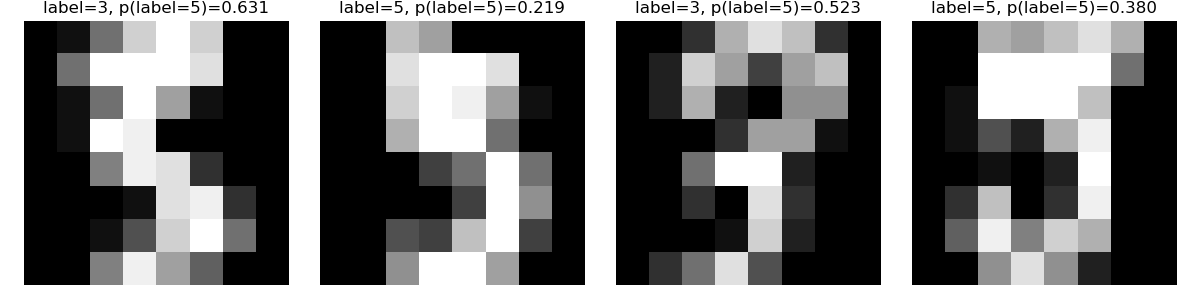
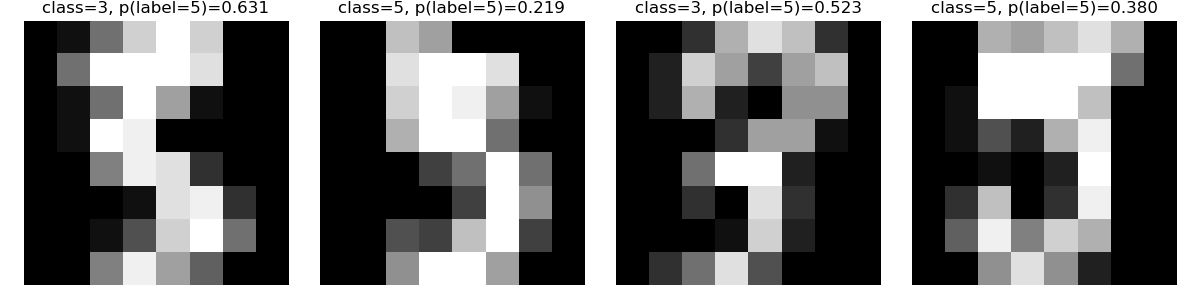
10-28 02-notes dataset  update

diff --git a/src/assignments/01-logistic-regression/logistic_regression.py b/src/assignments/01-logistic-regression/logistic_regression.py
@@ -38,7 +38,7 @@ fig ,axes = plt.subplots(1,5,figsize=(10,2))
 
 for i, ax in enumerate(axes):
     ax.imshow(data_label_0[i].reshape(8,8),cmap='gray')
-    ax.set_title("label 0")
+    ax.set_title("class 0")
     ax.axis("off")
 plt.tight_layout()
 plt.show()
@@ -47,7 +47,7 @@ fig ,axes = plt.subplots(1,5,figsize=(10,2))
 
 for i, ax in enumerate(axes):
     ax.imshow(data_label_1[i,].reshape(8,8),cmap='gray')
-    ax.set_title("label 1")
+    ax.set_title("class 1")
     ax.axis("off")
 plt.tight_layout()
 plt.show()
@@ -399,7 +399,7 @@ for i,ax in enumerate(axes[0]):
     elif(label[0,i]==1):
         label_true=5
     ax.set_title(
-            f"label={label_true}, p(label=5)={A.item():.3f}"
+            f"class={label_true}, p(label=5)={A.item():.3f}"
     )
     ax.axis("off")
 
